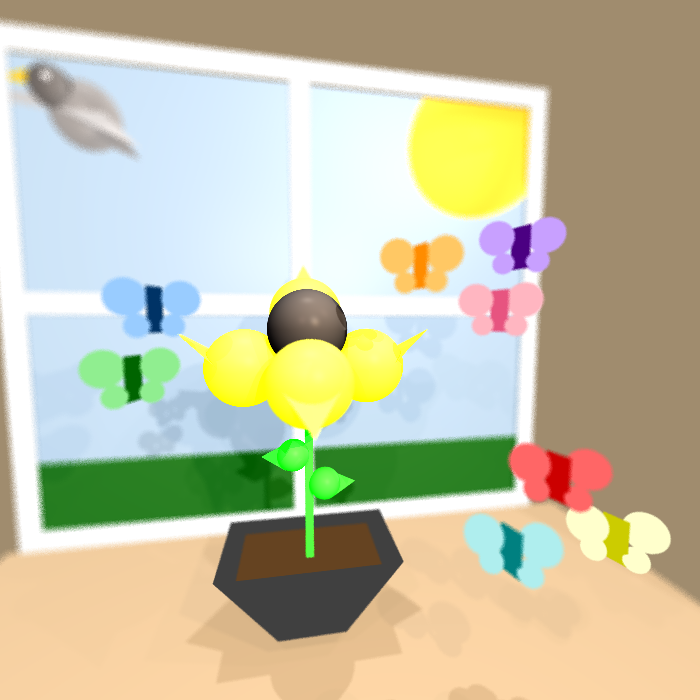
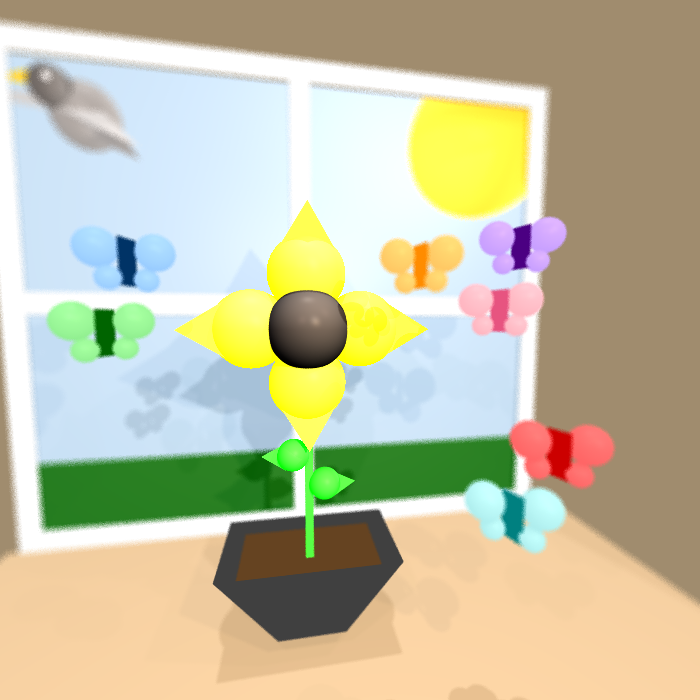
Fixing109

diff --git a/unittests/renderer/Mp2Tests.java b/unittests/renderer/Mp2Tests.java
@@ -197,39 +197,39 @@ class Mp2Tests {
 
             //The flower
             //Up-Yellow
-            new Triangle( new Point(-1.5, 2, -22), new Point(1.5, 2, -22), new Point(0, 5, -24))
+            new Triangle( new Point(-2, 4.5, -17), new Point(2, 4.5, -17), new Point(0, 7.5, -16))
                     .setEmission(new Color(java.awt.Color.YELLOW))
                     .setMaterial(new Material().setKd(0.8).setKs(0.2).setShininess(30)),
-            new Sphere( 2.5,new Point(0, 1, -20))
+            new Sphere( 2.5,new Point(0, 3.5, -18))
                     .setEmission(new Color(java.awt.Color.YELLOW))
                     .setMaterial(new Material().setKd(0.8).setKs(0.2).setShininess(30)),
 
             //Down-Yellow
-            new Triangle( new Point(-1.5, -3, -12.5), new Point(1.5, -3, -12.5), new Point(0, -5, -11))
+            new Triangle( new Point(-2, -4.5, -17), new Point(2, -4.5, -17), new Point(0, -7.5, -16))
                     .setEmission(new Color(java.awt.Color.YELLOW))
                     .setMaterial(new Material().setKd(0.8).setKs(0.2).setShininess(30)),
-            new Sphere( 2.5,new Point(0, -3, -14.5))
+            new Sphere( 2.5,new Point(0, -3.5, -18))
                     .setEmission(new Color(java.awt.Color.YELLOW))
                     .setMaterial(new Material().setKd(0.8).setKs(0.2).setShininess(30)),
 
             //Left-Yellow
-            new Triangle( new Point(-5, -2.5, -16), new Point(-5, -2.5, -21.5), new Point(-8, 0, -17.25))
+            new Triangle( new Point(-4.5, 2, -17), new Point(-4.5, -2, -17), new Point(-7.5, 0, -16))
                     .setEmission(new Color(java.awt.Color.YELLOW))
-                    .setMaterial(new Material().setKd(0.8).setKs(0.2).setShininess(30)),
-            new Sphere( 2.5,new Point(-4, -2.5, -18.25))
+                   .setMaterial(new Material().setKd(0.8).setKs(0.2).setShininess(30)),
+            new Sphere( 2.5,new Point(-3.5, 0, -18))
                     .setEmission(new Color(java.awt.Color.YELLOW))
                     .setMaterial(new Material().setKd(0.8).setKs(0.2).setShininess(30)),
 
             //Right-Yellow
-            new Triangle( new Point(5, -2.5, -16), new Point(5, -2.5, -21.5), new Point(8, 0, -17.25))
+            new Triangle( new Point(4.5, 2, -17), new Point(4.5, -2, -17), new Point(7.5, 0, -16))
                     .setEmission(new Color(java.awt.Color.YELLOW))
                     .setMaterial(new Material().setKd(0.8).setKs(0.2).setShininess(30)),
-            new Sphere( 2.5,new Point(4, -2.5, -18.25))
+            new Sphere( 2.5,new Point(3.5 , 0, -18))
                     .setEmission(new Color(java.awt.Color.YELLOW))
                     .setMaterial(new Material().setKd(0.8).setKs(0.2).setShininess(30)),
 
             //Center
-            new Sphere( 2.5,new Point(0, 0, -17.25))
+            new Sphere( 2.5,new Point(0, 0, -16.75))
                     .setEmission(new Color(java.awt.Color.BLACK))
                     .setMaterial(new Material().setKd(0.7).setKs(0.3).setShininess(50)),
 
@@ -274,7 +274,6 @@ class Mp2Tests {
                     new Point(-40, -40, -37))
                     .setEmission(new Color(0, 100, 0)),
 
-
             //The purple butterfly
             new Polygon( new Point(10, 5, -10),
                     new Point(9.7, 5, -11),
@@ -282,118 +281,131 @@ class Mp2Tests {
                     new Point(10, 3, -10))
                     .setEmission(new Color(75, 0, 130)),
             new Sphere( 0.8,new Point(10.8, 4.5, -10))
-                    .setEmission(new Color(200, 160, 255)),
+                    .setEmission(new Color(200, 160, 255))
+                    .setMaterial(new Material().setKd(0.1).setKs(0.1).setShininess(20)),
             new Sphere( 0.8,new Point(8.9, 4.5, -11))
-                    .setEmission(new Color(200, 160, 255)),
+                    .setEmission(new Color(200, 160, 255))
+                    .setMaterial( new Material().setKd(0.1).setKs(0.1).setShininess(20)),
             new Sphere(0.5,new Point(10.4, 3.3, -10))
-                    .setEmission(new Color(200, 160, 255)),
+                    .setEmission(new Color(200, 160, 255))
+                    .setMaterial( new Material().setKd(0.1).setKs(0.1).setShininess(20)),
             new Sphere( 0.5,new Point(9.3, 3.3, -11))
-                    .setEmission(new Color(200, 160, 255)),
+                    .setEmission(new Color(200, 160, 255))
+            .setMaterial( new Material().setKd(0.1).setKs(0.1).setShininess(20)),
 
             //The orange butterfly
              new Polygon( new Point(5, 4, -10),
                     new Point(4.7, 4, -11),
                     new Point(4.7, 2, -11),
                     new Point(5, 2, -10))
-            .setEmission(new Color(255, 140, 0)),
+                    .setEmission(new Color(255, 140, 0)),
             new Sphere( 0.8,new Point(5.8, 3.5, -10))
-            .setEmission(new Color(255, 200, 100)),
+                    .setEmission(new Color(255, 200, 100))
+                    .setMaterial(new Material().setKd(0.1).setKs(0.1).setShininess(20)),
             new Sphere( 0.8,new Point(3.9, 3.5, -11))
-            .setEmission(new Color(255, 200, 100)),
+                    .setEmission(new Color(255, 200, 100))
+                    .setMaterial(new Material().setKd(0.1).setKs(0.1).setShininess(20)),
             new Sphere(0.5,new Point(5.4, 2.3, -10))
-            .setEmission(new Color(255, 200, 100)),
+                    .setEmission(new Color(255, 200, 100))
+                    .setMaterial(new Material().setKd(0.1).setKs(0.1).setShininess(20)),
             new Sphere( 0.5,new Point(4.3, 2.3, -11))
-            .setEmission(new Color(255, 200, 100)),
+                    .setEmission(new Color(255, 200, 100))
+                    .setMaterial(new Material().setKd(0.1).setKs(0.1).setShininess(20)),
 
             //The pink butterfly
             new Polygon( new Point(9, 2, -10),
                     new Point(8.7, 2, -11),
                     new Point(8.7, 0, -11),
                     new Point(9, 0, -10))
-            .setEmission(new Color(231, 84, 128)),
+                    .setEmission(new Color(231, 84, 128)),
             new Sphere( 0.8,new Point(9.8, 1.5, -10))
-            .setEmission(new Color(255, 182, 193)),
+                    .setEmission(new Color(255, 182, 193))
+                    .setMaterial(new Material().setKd(0.1).setKs(0.1).setShininess(20)),
             new Sphere( 0.8,new Point(7.9, 1.5, -11))
-            .setEmission(new Color(255, 182, 193)),
+                    .setEmission(new Color(255, 182, 193))
+                    .setMaterial(new Material().setKd(0.1).setKs(0.1).setShininess(20)),
             new Sphere(0.5,new Point(9.4, 0.3, -10))
-            .setEmission(new Color(255, 182, 193)),
+                    .setEmission(new Color(255, 182, 193))
+                    .setMaterial(new Material().setKd(0.1).setKs(0.1).setShininess(20)),
             new Sphere( 0.5,new Point(8.3, 0.3, -11))
-            .setEmission(new Color(255, 182, 193)),
+                    .setEmission(new Color(255, 182, 193))
+                    .setMaterial(new Material().setKd(0.1).setKs(0.1).setShininess(20)),
 
             //The blue butterfly
-            new Polygon( new Point(-7, 2, -11),
-                    new Point(-6.7, 2, -12),
-                    new Point(-6.7, 0, -12),
-                    new Point(-7, 0, -11))
-            .setEmission(new Color(0, 51, 102)),
-            new Sphere( 0.8,new Point(-7.8, 1.5, -11))
-            .setEmission(new Color(153, 204, 255)),
-            new Sphere( 0.8,new Point(-5.9, 1.5, -12))
-            .setEmission(new Color(153, 204, 255)),
-            new Sphere(0.5,new Point(-7.4, 0.3, -11))
-            .setEmission(new Color(153, 204, 255)),
-            new Sphere( 0.5,new Point(-6.3, 0.3, -12))
-            .setEmission(new Color(153, 204, 255)),
+            new Polygon( new Point(-8, 4, -11),
+                    new Point(-7.7, 4, -12),
+                    new Point(-7.7, 2, -12),
+                    new Point(-8, 2, -11))
+                    .setEmission(new Color(0, 51, 102)),
+            new Sphere( 0.8,new Point(-8.8, 3.5, -11))
+                    .setEmission(new Color(153, 204, 255))
+                    .setMaterial(new Material().setKd(0.1).setKs(0.1).setShininess(20)),
+            new Sphere( 0.8,new Point(-6.9, 3.5, -12))
+                    .setEmission(new Color(153, 204, 255))
+                    .setMaterial(new Material().setKd(0.1).setKs(0.1).setShininess(20)),
+            new Sphere(0.5,new Point(-8.4, 2.3, -11))
+                    .setEmission(new Color(153, 204, 255))
+                    .setMaterial(new Material().setKd(0.1).setKs(0.1).setShininess(20)),
+            new Sphere( 0.5,new Point(-7.3, 2.3, -12))
+                    .setEmission(new Color(153, 204, 255))
+                    .setMaterial(new Material().setKd(0.1).setKs(0.1).setShininess(20)),
 
             //The  green butterfly
-            new Polygon( new Point(-8, -1, -11),
-                    new Point(-7.7, -1, -12),
-                    new Point(-7.7, -3, -12),
-                    new Point(-8, -3, -11))
+            new Polygon( new Point(-9, 1, -11),
+                    new Point(-8.7, 1, -12),
+                    new Point(-8.7, -1, -12),
+                    new Point(-9, -1, -11))
                     .setEmission(new Color(0, 100, 0)),
-            new Sphere( 0.8,new Point(-8.8, -1.5, -11))
-                    .setEmission(new Color(144, 238, 144)),
-            new Sphere( 0.8,new Point(-6.9, -1.5, -12))
-                    .setEmission(new Color(144, 238, 144)),
-            new Sphere(0.5,new Point(-8.4, -2.7, -11))
-                    .setEmission(new Color(144, 238, 144)),
-            new Sphere( 0.5,new Point(-7.3, -2.7, -12))
-                    .setEmission(new Color(144, 238, 144)),
+            new Sphere( 0.8,new Point(-9.8, 0.5, -11))
+                    .setEmission(new Color(144, 238, 144))
+                    .setMaterial(new Material().setKd(0.1).setKs(0.1).setShininess(20)),
+            new Sphere( 0.8,new Point(-7.9, 0.5, -12))
+                    .setEmission(new Color(144, 238, 144))
+                    .setMaterial(new Material().setKd(0.1).setKs(0.1).setShininess(20)),
+            new Sphere(0.5,new Point(-9.4, -0.7, -11))
+                    .setEmission(new Color(144, 238, 144))
+                    .setMaterial(new Material().setKd(0.1).setKs(0.1).setShininess(20)),
+            new Sphere( 0.5,new Point(-8.3, -0.7, -12))
+                    .setEmission(new Color(144, 238, 144))
+                    .setMaterial(new Material().setKd(0.1).setKs(0.1).setShininess(20)),
 
             //The red butterfly
-            new Polygon( new Point(10, -5, -7),
-                    new Point(9.7, -5, -8),
-                    new Point(9.7, -7, -8),
-                    new Point(10, -7, -7))
+            new Polygon( new Point(10, -4, -7),
+                    new Point(9.7, -4, -8),
+                    new Point(9.7, -6, -8),
+                    new Point(10, -6, -7))
                     .setEmission(new Color(204, 0, 0)),
-            new Sphere( 0.8,new Point(10.8, -5.5, -7))
-                    .setEmission(new Color(255, 102, 102)),
-            new Sphere( 0.8,new Point(8.9, -5.5, -8))
-                    .setEmission(new Color(255, 102, 102)),
-            new Sphere(0.5,new Point(10.4, -6.7, -7))
-                    .setEmission(new Color(255, 102, 102)),
-            new Sphere( 0.5,new Point(9.3, -6.7, -8))
-                    .setEmission(new Color(255, 102, 102)),
+            new Sphere( 0.8,new Point(10.8, -4.5, -7))
+                    .setEmission(new Color(255, 102, 102))
+                    .setMaterial(new Material().setKd(0.1).setKs(0.1).setShininess(20)),
+            new Sphere( 0.8,new Point(8.9, -4.5, -8))
+                    .setEmission(new Color(255, 102, 102))
+                    .setMaterial(new Material().setKd(0.1).setKs(0.1).setShininess(20)),
+            new Sphere(0.5,new Point(10.4, -5.7, -7))
+                    .setEmission(new Color(255, 102, 102))
+                    .setMaterial(new Material().setKd(0.1).setKs(0.1).setShininess(20)),
+            new Sphere( 0.5,new Point(9.3, -5.7, -8))
+                    .setEmission(new Color(255, 102, 102))
+                    .setMaterial(new Material().setKd(0.1).setKs(0.1).setShininess(20)),
 
             //The turkiz  butterfly
-            new Polygon( new Point(8, -8, -7),
-                    new Point(7.7, -8, -8),
-                    new Point(7.7, -10, -8),
-                    new Point(8, -10, -7))
+            new Polygon( new Point(8, -6.5, -7),
+                    new Point(7.7, -6.5, -8),
+                    new Point(7.7, -8.5, -8),
+                    new Point(8, -8.5, -7))
                     .setEmission(new Color(0, 128, 128)),
-            new Sphere( 0.8,new Point(8.8, -8.5, -7))
-                    .setEmission(new Color(175, 238, 238)),
-            new Sphere( 0.8,new Point(6.9, -8.5, -8))
-                    .setEmission(new Color(175, 238, 238)),
-            new Sphere(0.5,new Point(8.4, -9.7, -7))
-                    .setEmission(new Color(175, 238, 238)),
-            new Sphere( 0.5,new Point(7.3, -9.7, -8))
-                    .setEmission(new Color(175, 238, 238)),
-
-            //The  yellow butterfly
-            new Polygon( new Point(13, -8, -7),
-                    new Point(12.7, -8, -8),
-                    new Point(12.7, -10, -8),
-                    new Point(13, -10, -7))
-                    .setEmission(new Color(204, 204, 0)),
-            new Sphere( 0.8,new Point(13.8, -8.5, -7))
-                    .setEmission(new Color(255, 255, 204)),
-            new Sphere( 0.8,new Point(11.9, -8.5, -8))
-                    .setEmission(new Color(255, 255, 204)),
-            new Sphere(0.5,new Point(13.4, -9.7, -7))
-                    .setEmission(new Color(255, 255, 204)),
-            new Sphere( 0.5,new Point(12.3, -9.7, -8))
-                    .setEmission(new Color(255, 255, 204))
+            new Sphere( 0.8,new Point(8.8, -7, -7))
+                    .setEmission(new Color(175, 238, 238))
+                    .setMaterial(new Material().setKd(0.1).setKs(0.1).setShininess(20)),
+            new Sphere( 0.8,new Point(6.9, -7, -8))
+                    .setEmission(new Color(175, 238, 238))
+                    .setMaterial(new Material().setKd(0.1).setKs(0.1).setShininess(20)),
+            new Sphere(0.5,new Point(8.4, -8.2, -7))
+                    .setEmission(new Color(175, 238, 238))
+                    .setMaterial(new Material().setKd(0.1).setKs(0.1).setShininess(20)),
+            new Sphere( 0.5,new Point(7.3, -8.2, -8))
+                    .setEmission(new Color(175, 238, 238))
+                    .setMaterial(new Material().setKd(0.1).setKs(0.1).setShininess(20))
     );
 
     /**The light sources of the scene
